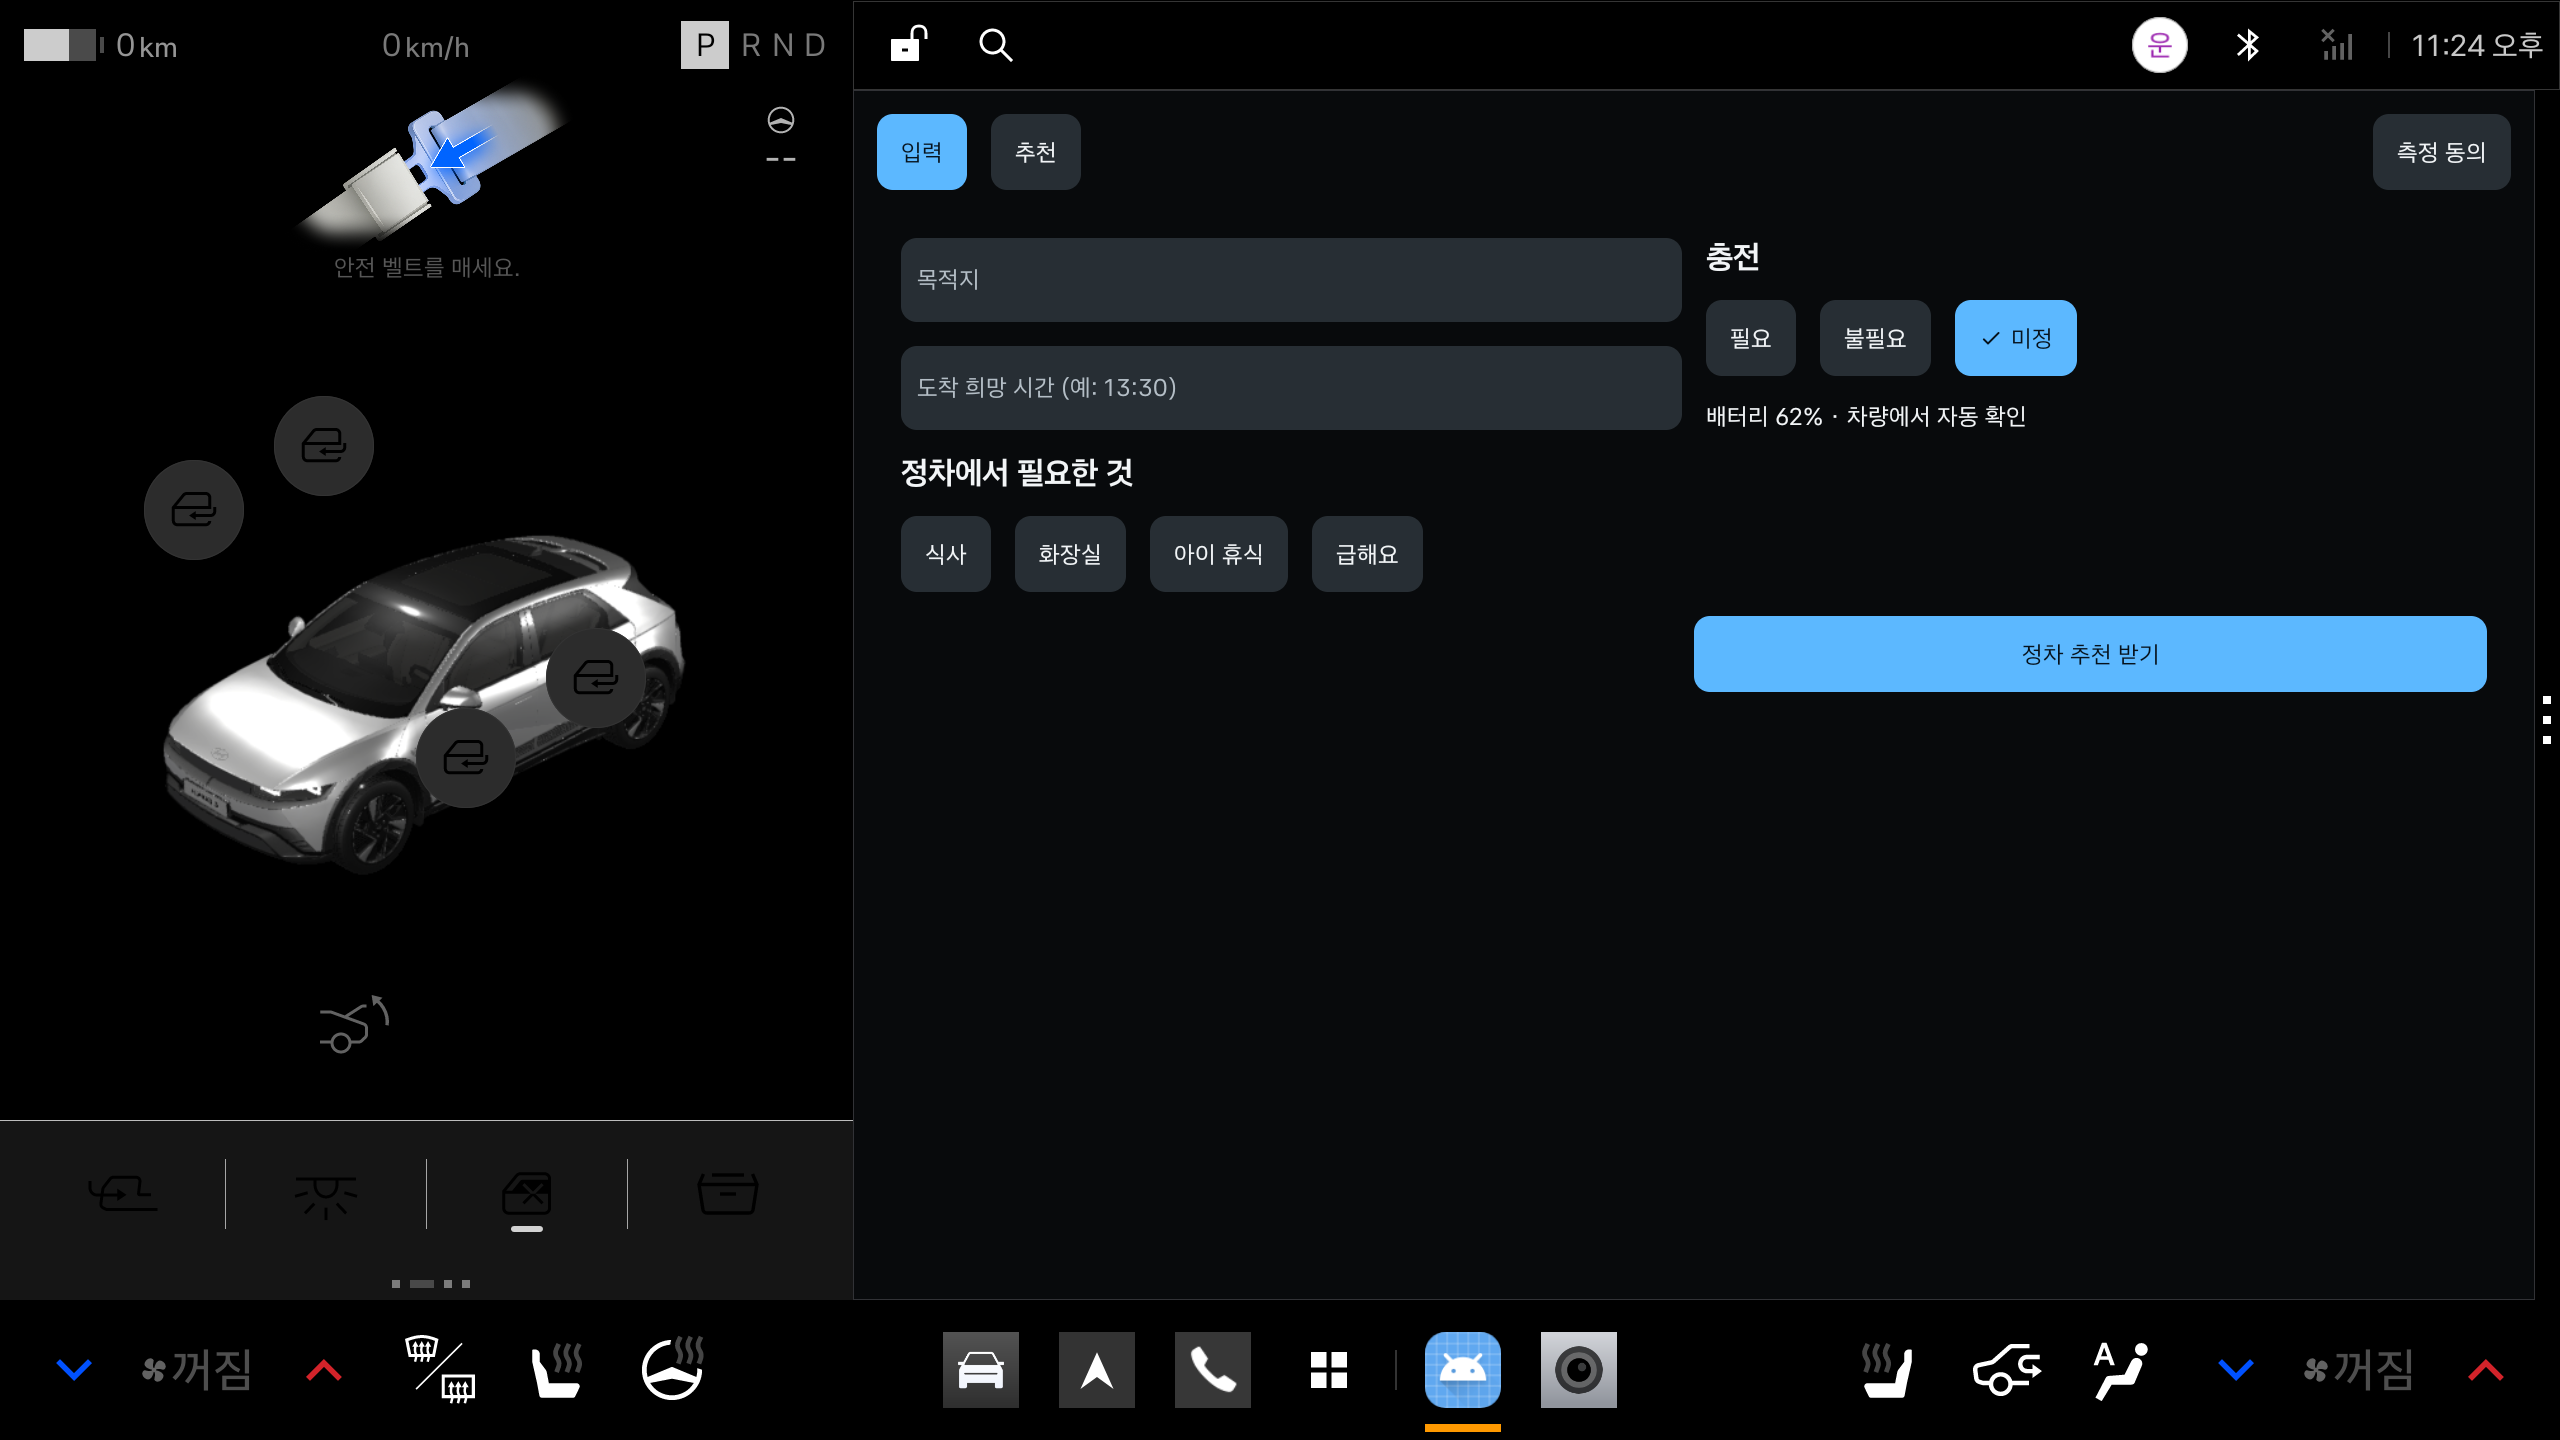
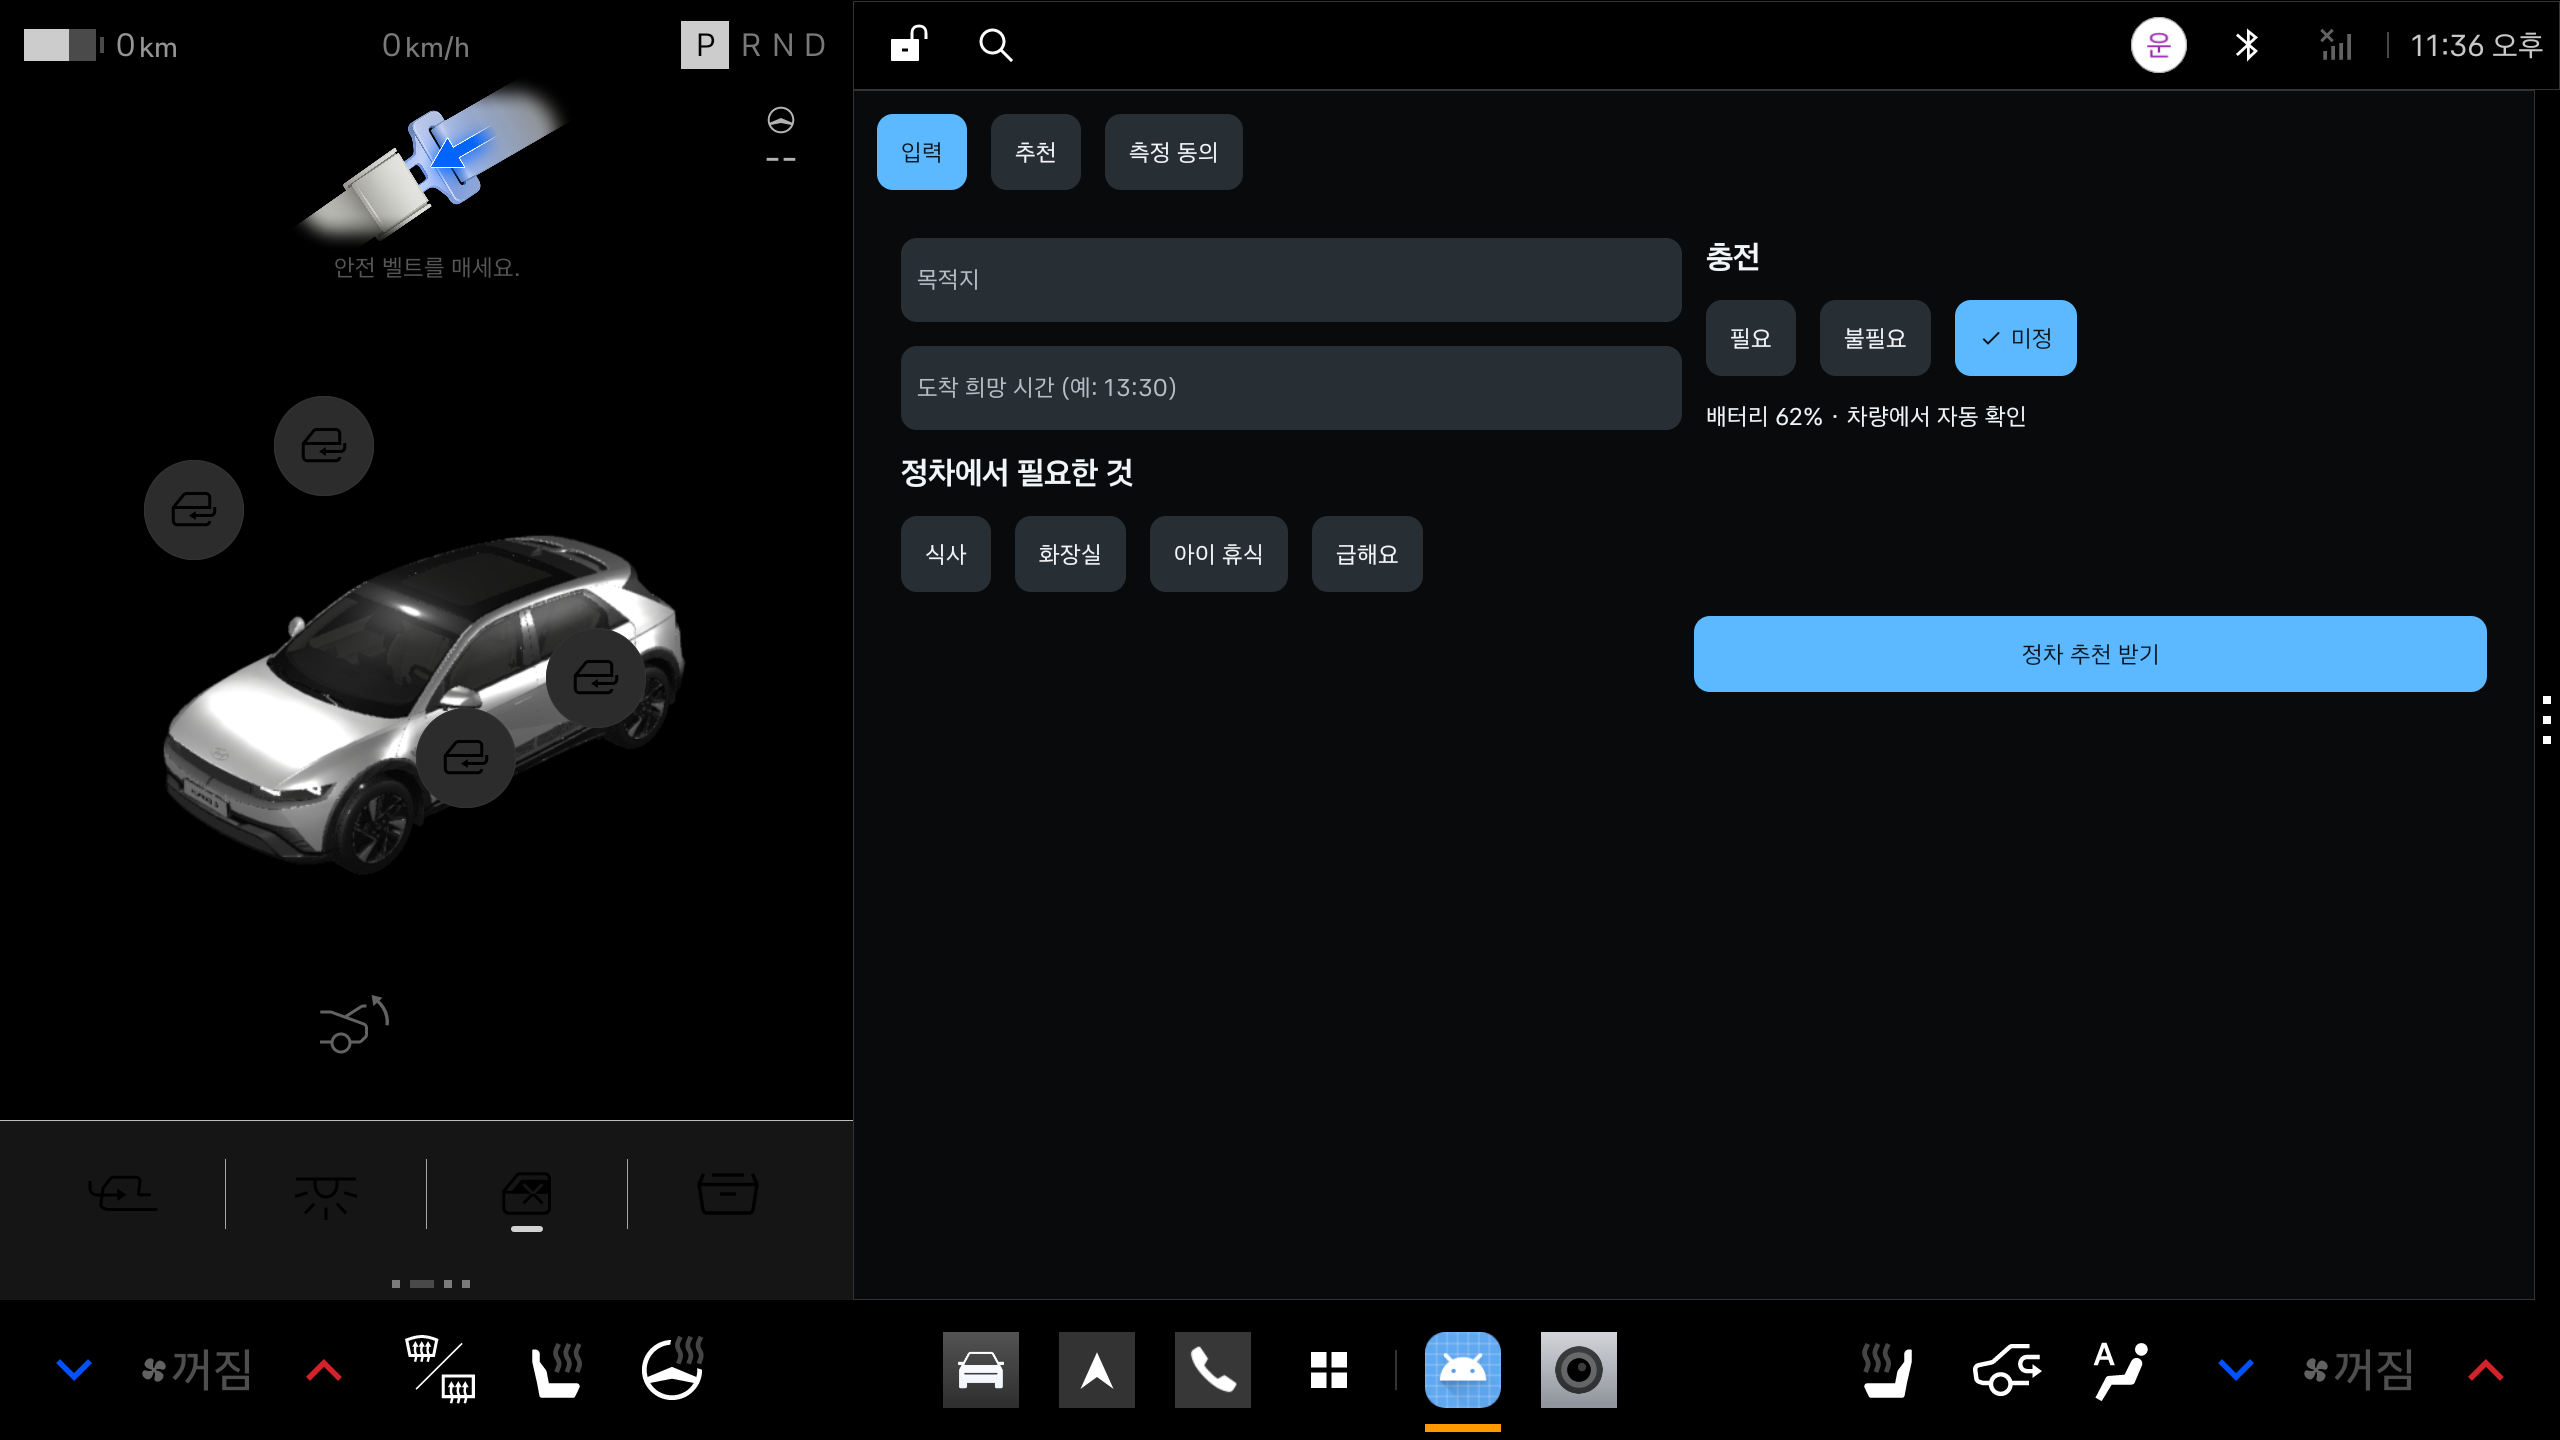
정차 탭 줄바꿈 복원 + 입력 오류 필드별 표시 (#50 d) (#55)
* fix(parked): 탭 줄바꿈 복원, 입력 오류를 해당 칸 아래로 분리

* ci: design-gate 재실행 (PR 본문 Closes #50 반영)

* docs(design-qa): 재점검 결과 표 + 입력 Night/Day 재캡처 (#50)

* fix(app): 정차 탭을 한 줄 가로 스크롤로 (높이 고정, 모든 탭 접근)

Changed region(s): [[0.9062, 0.0625, 1.0, 0.1562], [0.4062, 0.0625, 0.5, 0.1562]]

diff --git a/app/src/main/java/ai/familystop/AppRoot.kt b/app/src/main/java/ai/familystop/AppRoot.kt
@@ -31,11 +31,12 @@ import android.Manifest
 import android.content.pm.PackageManager
 import androidx.activity.compose.rememberLauncherForActivityResult
 import androidx.activity.result.contract.ActivityResultContracts
+import androidx.compose.foundation.horizontalScroll
 import androidx.compose.foundation.layout.Arrangement
 import androidx.compose.foundation.layout.Column
 import androidx.compose.foundation.layout.Row
-import androidx.compose.foundation.layout.Spacer
 import androidx.compose.foundation.layout.fillMaxSize
+import androidx.compose.foundation.rememberScrollState
 import androidx.compose.material3.Text
 import androidx.compose.runtime.Composable
 import androidx.compose.runtime.DisposableEffect
@@ -178,14 +179,22 @@ private fun Parked(
         }
     }
     Column(Modifier.fillMaxSize(), verticalArrangement = Arrangement.spacedBy(App.space.lg)) {
-        Row(horizontalArrangement = Arrangement.spacedBy(App.space.lg)) {
+        // 한 줄 고정 + 가로 스크롤: 좁은 폭·큰 글자에서도 모든 탭에 닿고 폼 높이를 뺏지 않는다.
+        // 동의는 설정성 항목이라 마지막 보조 버튼.
+        Row(
+            Modifier.horizontalScroll(rememberScrollState()),
+            horizontalArrangement = Arrangement.spacedBy(App.space.lg)
+        ) {
             Step.entries.filter { it != Step.CONSENT && (it != Step.ACTIVITY || s.charging) }
                 .forEach { step ->
                     AppButton(step.label, { s.step = step }, primary = s.step == step)
                 }
-            Spacer(Modifier.weight(1f))
-            // 동의는 여행 흐름이 아니라 설정성 항목이라 오른쪽 끝에 보조 버튼으로 분리.
-            AppButton(Step.CONSENT.label, { s.step = Step.CONSENT }, primary = false)
+            AppButton(
+                Step.CONSENT.label,
+                { s.step = Step.CONSENT },
+                primary =
+                s.step == Step.CONSENT
+            )
         }
         // Keeps each step's typed-in state while driving removes the parked UI from composition.
         holder.SaveableStateProvider(s.step.name) {

diff --git a/feature/input/src/main/java/ai/familystop/feature/input/TripInputScreen.kt b/feature/input/src/main/java/ai/familystop/feature/input/TripInputScreen.kt
@@ -76,10 +76,11 @@ fun TripInputScreen(
     ) {
         Row(Modifier.fillMaxWidth(), horizontalArrangement = Gap) {
             Column(Modifier.weight(1f), verticalArrangement = Gap) {
+                // 오류는 해당 입력칸 바로 아래에 상태 칩으로(아이콘+문구, 색만으로 구분하지 않음).
                 AppTextField(d.destination, { d = d.copy(destination = it) }, "목적지")
+                ErrorChips(errors, InputError.DESTINATION_MISSING)
                 AppTextField(d.timeText, { d = d.copy(timeText = it) }, "도착 희망 시간 (예: 13:30)")
-                // 오류는 입력칸 바로 아래에 상태 칩으로(아이콘+문구, 색만으로 구분하지 않음).
-                errors.forEach { StatusChip(Status.Danger, it.message) }
+                ErrorChips(errors, InputError.TIME_INVALID, InputError.TIME_PAST)
 
                 Text("정차에서 필요한 것", style = App.type.stopTitle)
                 FlowRow(horizontalArrangement = Gap, verticalArrangement = Gap) {
@@ -113,6 +114,7 @@ fun TripInputScreen(
                         { d = d.copy(manualSocText = it.filter(Char::isDigit).take(3)) },
                         "배터리 잔량 % (직접 입력)"
                     )
+                    ErrorChips(errors, InputError.SOC_RANGE)
                 }
                 Text(
                     when (val soc = resolveSoc(autoSocPercent, manual)) {
@@ -139,4 +141,9 @@ fun TripInputScreen(
             Modifier.fillMaxWidth(0.5f).align(Alignment.End)
         )
     }
+}
+
+@Composable
+private fun ErrorChips(errors: List<InputError>, vararg only: InputError) {
+    errors.filter { it in only }.forEach { StatusChip(Status.Danger, it.message) }
 }

diff --git a/docs/design-qa/README.md b/docs/design-qa/README.md
@@ -36,3 +36,18 @@
 1. `CompareList`/`CompareRow` 구현(정차 추천 화면) — 신규 이슈 필요(Figma 선행·`figma-done`).
 2. 주행 카드 버튼 아이콘(`add_location_alt`)과 "다음 충전 정차" 헤더 — Figma에는 있으나 구현·DESIGN.md 컴포넌트 목록에 없음. 아이콘 벡터 추가 필요.
 3. UndoBar·핸드오프·충전 활동(자동 확인) 화면은 내비 전면 전환을 피하는 캡처 절차(예: 내비 경로 없이 추가 실패 상태 유도) 확보 후 재캡처.
+
+## 재점검 결과 (#50, 2026-11-08) — 위 불일치 표의 현재 상태
+
+| 화면 | 상태 | 근거 |
+|---|---|---|
+| 주행 카드 | **일치** (#52) | 카드 ≈400dp 고정·세로 중앙, 지표 2칸, 아이콘 버튼, 헤더 "다음 충전 정차". `shots/drive-states/drive-idle-*.png` |
+| 주행 UndoBar·실패·추가 중·빈 상태 | **검증됨** (#52) | fake `NaviGateway` Compose 스크린샷 테스트(`DriveScreenshotTest`) 7건, `shots/drive-states/` |
+| 정차 추천 | **일치** (#53) | `CompareRow` 목록 + 하단 단일 버튼, `RecommendScreenshotTest`, `shots/drive-states/parked-compare-{night,day}.png` |
+| 정차 입력 | **일치** (#54, #55) | 2열, 오류는 해당 칸 아래 `StatusChip`, `imePadding`. 에뮬레이터 `shots/after/parked-input-{night,day}.png` |
+| 충전 활동·폴백·동의 | **코드 반영, 캡처 미실시** (#54) | 폭 제한·위계·버튼 배치. 에뮬레이터 재캡처는 하지 않았다 |
+| 앱 셸 탭 | **일치** (#54, #55) | FlowRow 줄바꿈, "측정 동의"는 마지막 버튼 |
+| 음성 바 | **일치** (#52) | 주행 중 한 줄 `VoiceHint`, 정차에서는 숨김 |
+| 핸드오프 화면 | **미검증** | 스크린샷 테스트 없음(후속 필요) |
+
+한계: 충전/폴백/동의의 Day 모드, Figma Day 프레임((c) 화면)은 만들지 않았다.
